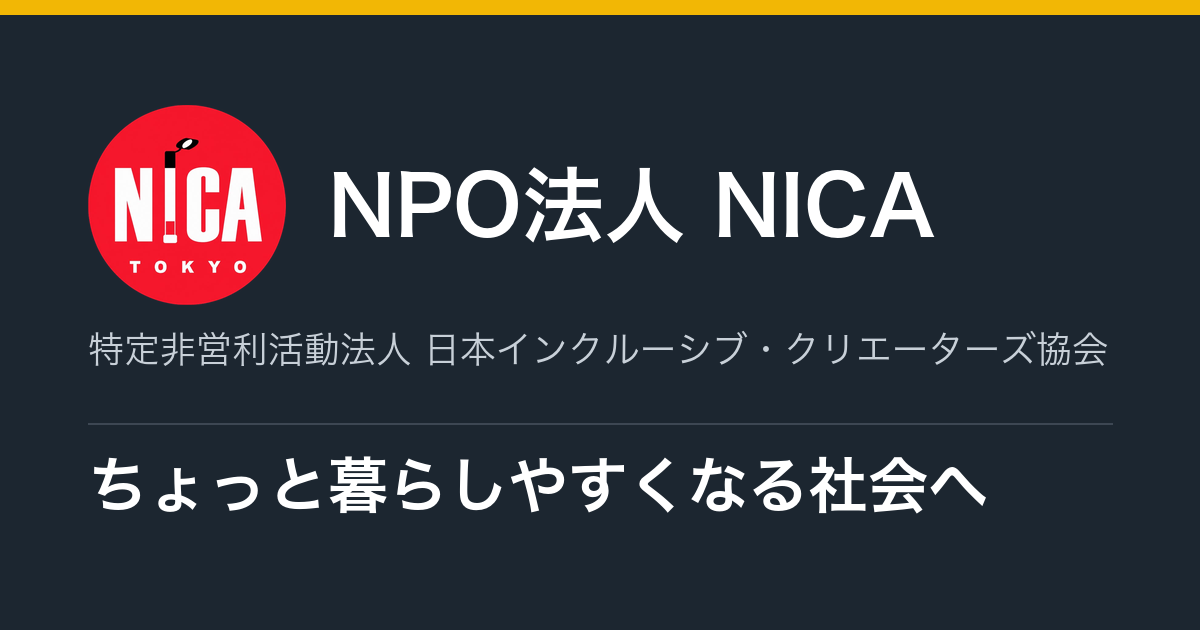
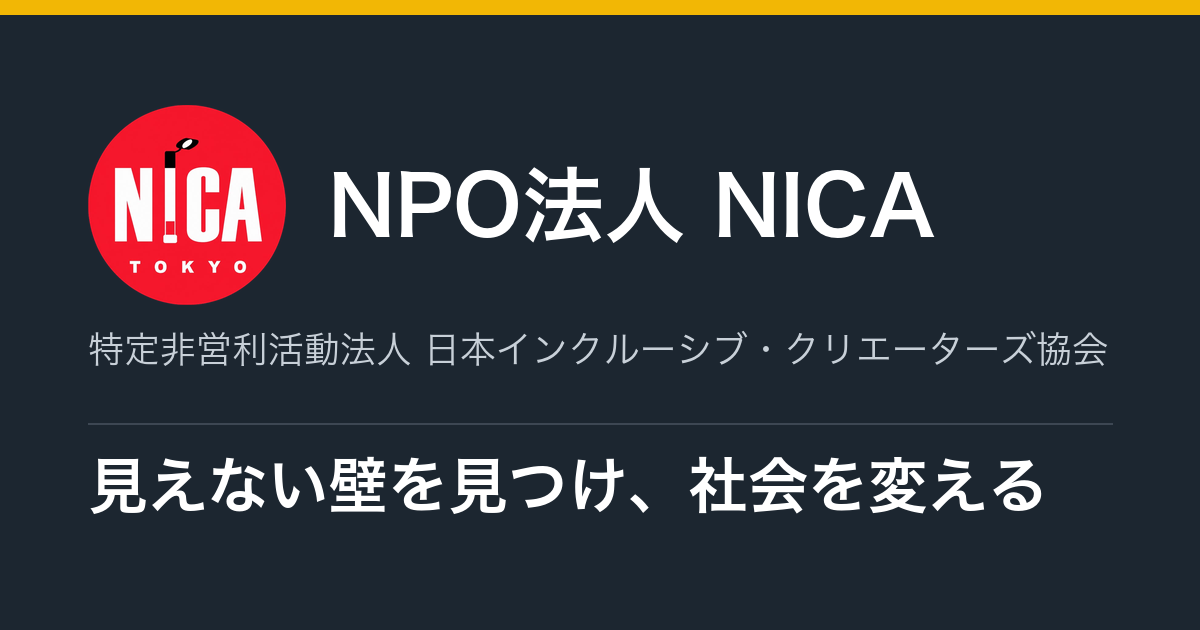
共有画像のキャッチをトップページの見出しと揃える
「ちょっと暮らしやすくなる社会へ」を「見えない壁を見つけ、社会を変える」
に変更。旧サイトが「やさしさに変える」から「社会を変える」へ書き換えられ、
新サイトの見出しもそれに合わせたため、共有カードでも同じ言葉を出す。

カードで見た言葉と、開いたページの見出しが一致する。

Changed region(s): [[0.0617, 0.7238, 0.8633, 0.8143]]

diff --git a/braille-block/events/2021-2022/index.html b/braille-block/events/2021-2022/index.html
@@ -18,7 +18,7 @@
 <meta property="og:image" content="https://nica-japan.github.io/nica-site/assets/og-image.png">
 <meta property="og:image:width" content="1200">
 <meta property="og:image:height" content="630">
-<meta property="og:image:alt" content="NPO法人 NICA（ナイカ）／特定非営利活動法人 日本インクルーシブ・クリエーターズ協会／ちょっと暮らしやすくなる社会へ">
+<meta property="og:image:alt" content="NPO法人 NICA（ナイカ）／特定非営利活動法人 日本インクルーシブ・クリエーターズ協会／見えない壁を見つけ、社会を変える">
 <meta name="twitter:card" content="summary_large_image">
 <link rel="stylesheet" href="../../../assets/style.css">
 </head>

diff --git a/braille-block/events/2023/index.html b/braille-block/events/2023/index.html
@@ -18,7 +18,7 @@
 <meta property="og:image" content="https://nica-japan.github.io/nica-site/assets/og-image.png">
 <meta property="og:image:width" content="1200">
 <meta property="og:image:height" content="630">
-<meta property="og:image:alt" content="NPO法人 NICA（ナイカ）／特定非営利活動法人 日本インクルーシブ・クリエーターズ協会／ちょっと暮らしやすくなる社会へ">
+<meta property="og:image:alt" content="NPO法人 NICA（ナイカ）／特定非営利活動法人 日本インクルーシブ・クリエーターズ協会／見えない壁を見つけ、社会を変える">
 <meta name="twitter:card" content="summary_large_image">
 <link rel="stylesheet" href="../../../assets/style.css">
 </head>

diff --git a/braille-block/events/2024/index.html b/braille-block/events/2024/index.html
@@ -18,7 +18,7 @@
 <meta property="og:image" content="https://nica-japan.github.io/nica-site/assets/og-image.png">
 <meta property="og:image:width" content="1200">
 <meta property="og:image:height" content="630">
-<meta property="og:image:alt" content="NPO法人 NICA（ナイカ）／特定非営利活動法人 日本インクルーシブ・クリエーターズ協会／ちょっと暮らしやすくなる社会へ">
+<meta property="og:image:alt" content="NPO法人 NICA（ナイカ）／特定非営利活動法人 日本インクルーシブ・クリエーターズ協会／見えない壁を見つけ、社会を変える">
 <meta name="twitter:card" content="summary_large_image">
 <link rel="stylesheet" href="../../../assets/style.css">
 </head>

diff --git a/braille-block/events/2025/index.html b/braille-block/events/2025/index.html
@@ -18,7 +18,7 @@
 <meta property="og:image" content="https://nica-japan.github.io/nica-site/assets/og-image.png">
 <meta property="og:image:width" content="1200">
 <meta property="og:image:height" content="630">
-<meta property="og:image:alt" content="NPO法人 NICA（ナイカ）／特定非営利活動法人 日本インクルーシブ・クリエーターズ協会／ちょっと暮らしやすくなる社会へ">
+<meta property="og:image:alt" content="NPO法人 NICA（ナイカ）／特定非営利活動法人 日本インクルーシブ・クリエーターズ協会／見えない壁を見つけ、社会を変える">
 <meta name="twitter:card" content="summary_large_image">
 <link rel="stylesheet" href="../../../assets/style.css">
 </head>

diff --git a/activities/2018-2021/index.html b/activities/2018-2021/index.html
@@ -18,7 +18,7 @@
 <meta property="og:image" content="https://nica-japan.github.io/nica-site/assets/og-image.png">
 <meta property="og:image:width" content="1200">
 <meta property="og:image:height" content="630">
-<meta property="og:image:alt" content="NPO法人 NICA（ナイカ）／特定非営利活動法人 日本インクルーシブ・クリエーターズ協会／ちょっと暮らしやすくなる社会へ">
+<meta property="og:image:alt" content="NPO法人 NICA（ナイカ）／特定非営利活動法人 日本インクルーシブ・クリエーターズ協会／見えない壁を見つけ、社会を変える">
 <meta name="twitter:card" content="summary_large_image">
 <link rel="stylesheet" href="../../assets/style.css">
 </head>

diff --git a/activities/2022/index.html b/activities/2022/index.html
@@ -18,7 +18,7 @@
 <meta property="og:image" content="https://nica-japan.github.io/nica-site/assets/og-image.png">
 <meta property="og:image:width" content="1200">
 <meta property="og:image:height" content="630">
-<meta property="og:image:alt" content="NPO法人 NICA（ナイカ）／特定非営利活動法人 日本インクルーシブ・クリエーターズ協会／ちょっと暮らしやすくなる社会へ">
+<meta property="og:image:alt" content="NPO法人 NICA（ナイカ）／特定非営利活動法人 日本インクルーシブ・クリエーターズ協会／見えない壁を見つけ、社会を変える">
 <meta name="twitter:card" content="summary_large_image">
 <link rel="stylesheet" href="../../assets/style.css">
 </head>

diff --git a/activities/2023/index.html b/activities/2023/index.html
@@ -18,7 +18,7 @@
 <meta property="og:image" content="https://nica-japan.github.io/nica-site/assets/og-image.png">
 <meta property="og:image:width" content="1200">
 <meta property="og:image:height" content="630">
-<meta property="og:image:alt" content="NPO法人 NICA（ナイカ）／特定非営利活動法人 日本インクルーシブ・クリエーターズ協会／ちょっと暮らしやすくなる社会へ">
+<meta property="og:image:alt" content="NPO法人 NICA（ナイカ）／特定非営利活動法人 日本インクルーシブ・クリエーターズ協会／見えない壁を見つけ、社会を変える">
 <meta name="twitter:card" content="summary_large_image">
 <link rel="stylesheet" href="../../assets/style.css">
 </head>

diff --git a/activities/2024/index.html b/activities/2024/index.html
@@ -18,7 +18,7 @@
 <meta property="og:image" content="https://nica-japan.github.io/nica-site/assets/og-image.png">
 <meta property="og:image:width" content="1200">
 <meta property="og:image:height" content="630">
-<meta property="og:image:alt" content="NPO法人 NICA（ナイカ）／特定非営利活動法人 日本インクルーシブ・クリエーターズ協会／ちょっと暮らしやすくなる社会へ">
+<meta property="og:image:alt" content="NPO法人 NICA（ナイカ）／特定非営利活動法人 日本インクルーシブ・クリエーターズ協会／見えない壁を見つけ、社会を変える">
 <meta name="twitter:card" content="summary_large_image">
 <link rel="stylesheet" href="../../assets/style.css">
 </head>

diff --git a/activities/2025/index.html b/activities/2025/index.html
@@ -18,7 +18,7 @@
 <meta property="og:image" content="https://nica-japan.github.io/nica-site/assets/og-image.png">
 <meta property="og:image:width" content="1200">
 <meta property="og:image:height" content="630">
-<meta property="og:image:alt" content="NPO法人 NICA（ナイカ）／特定非営利活動法人 日本インクルーシブ・クリエーターズ協会／ちょっと暮らしやすくなる社会へ">
+<meta property="og:image:alt" content="NPO法人 NICA（ナイカ）／特定非営利活動法人 日本インクルーシブ・クリエーターズ協会／見えない壁を見つけ、社会を変える">
 <meta name="twitter:card" content="summary_large_image">
 <link rel="stylesheet" href="../../assets/style.css">
 </head>

diff --git a/activities/2026/index.html b/activities/2026/index.html
@@ -18,7 +18,7 @@
 <meta property="og:image" content="https://nica-japan.github.io/nica-site/assets/og-image.png">
 <meta property="og:image:width" content="1200">
 <meta property="og:image:height" content="630">
-<meta property="og:image:alt" content="NPO法人 NICA（ナイカ）／特定非営利活動法人 日本インクルーシブ・クリエーターズ協会／ちょっと暮らしやすくなる社会へ">
+<meta property="og:image:alt" content="NPO法人 NICA（ナイカ）／特定非営利活動法人 日本インクルーシブ・クリエーターズ協会／見えない壁を見つけ、社会を変える">
 <meta name="twitter:card" content="summary_large_image">
 <link rel="stylesheet" href="../../assets/style.css">
 </head>

diff --git a/braille-block/events/index.html b/braille-block/events/index.html
@@ -18,7 +18,7 @@
 <meta property="og:image" content="https://nica-japan.github.io/nica-site/assets/og-image.png">
 <meta property="og:image:width" content="1200">
 <meta property="og:image:height" content="630">
-<meta property="og:image:alt" content="NPO法人 NICA（ナイカ）／特定非営利活動法人 日本インクルーシブ・クリエーターズ協会／ちょっと暮らしやすくなる社会へ">
+<meta property="og:image:alt" content="NPO法人 NICA（ナイカ）／特定非営利活動法人 日本インクルーシブ・クリエーターズ協会／見えない壁を見つけ、社会を変える">
 <meta name="twitter:card" content="summary_large_image">
 <link rel="stylesheet" href="../../assets/style.css">
 </head>

diff --git a/braille-block/videos/index.html b/braille-block/videos/index.html
@@ -18,7 +18,7 @@
 <meta property="og:image" content="https://nica-japan.github.io/nica-site/assets/og-image.png">
 <meta property="og:image:width" content="1200">
 <meta property="og:image:height" content="630">
-<meta property="og:image:alt" content="NPO法人 NICA（ナイカ）／特定非営利活動法人 日本インクルーシブ・クリエーターズ協会／ちょっと暮らしやすくなる社会へ">
+<meta property="og:image:alt" content="NPO法人 NICA（ナイカ）／特定非営利活動法人 日本インクルーシブ・クリエーターズ協会／見えない壁を見つけ、社会を変える">
 <meta name="twitter:card" content="summary_large_image">
 <link rel="stylesheet" href="../../assets/style.css">
 </head>
